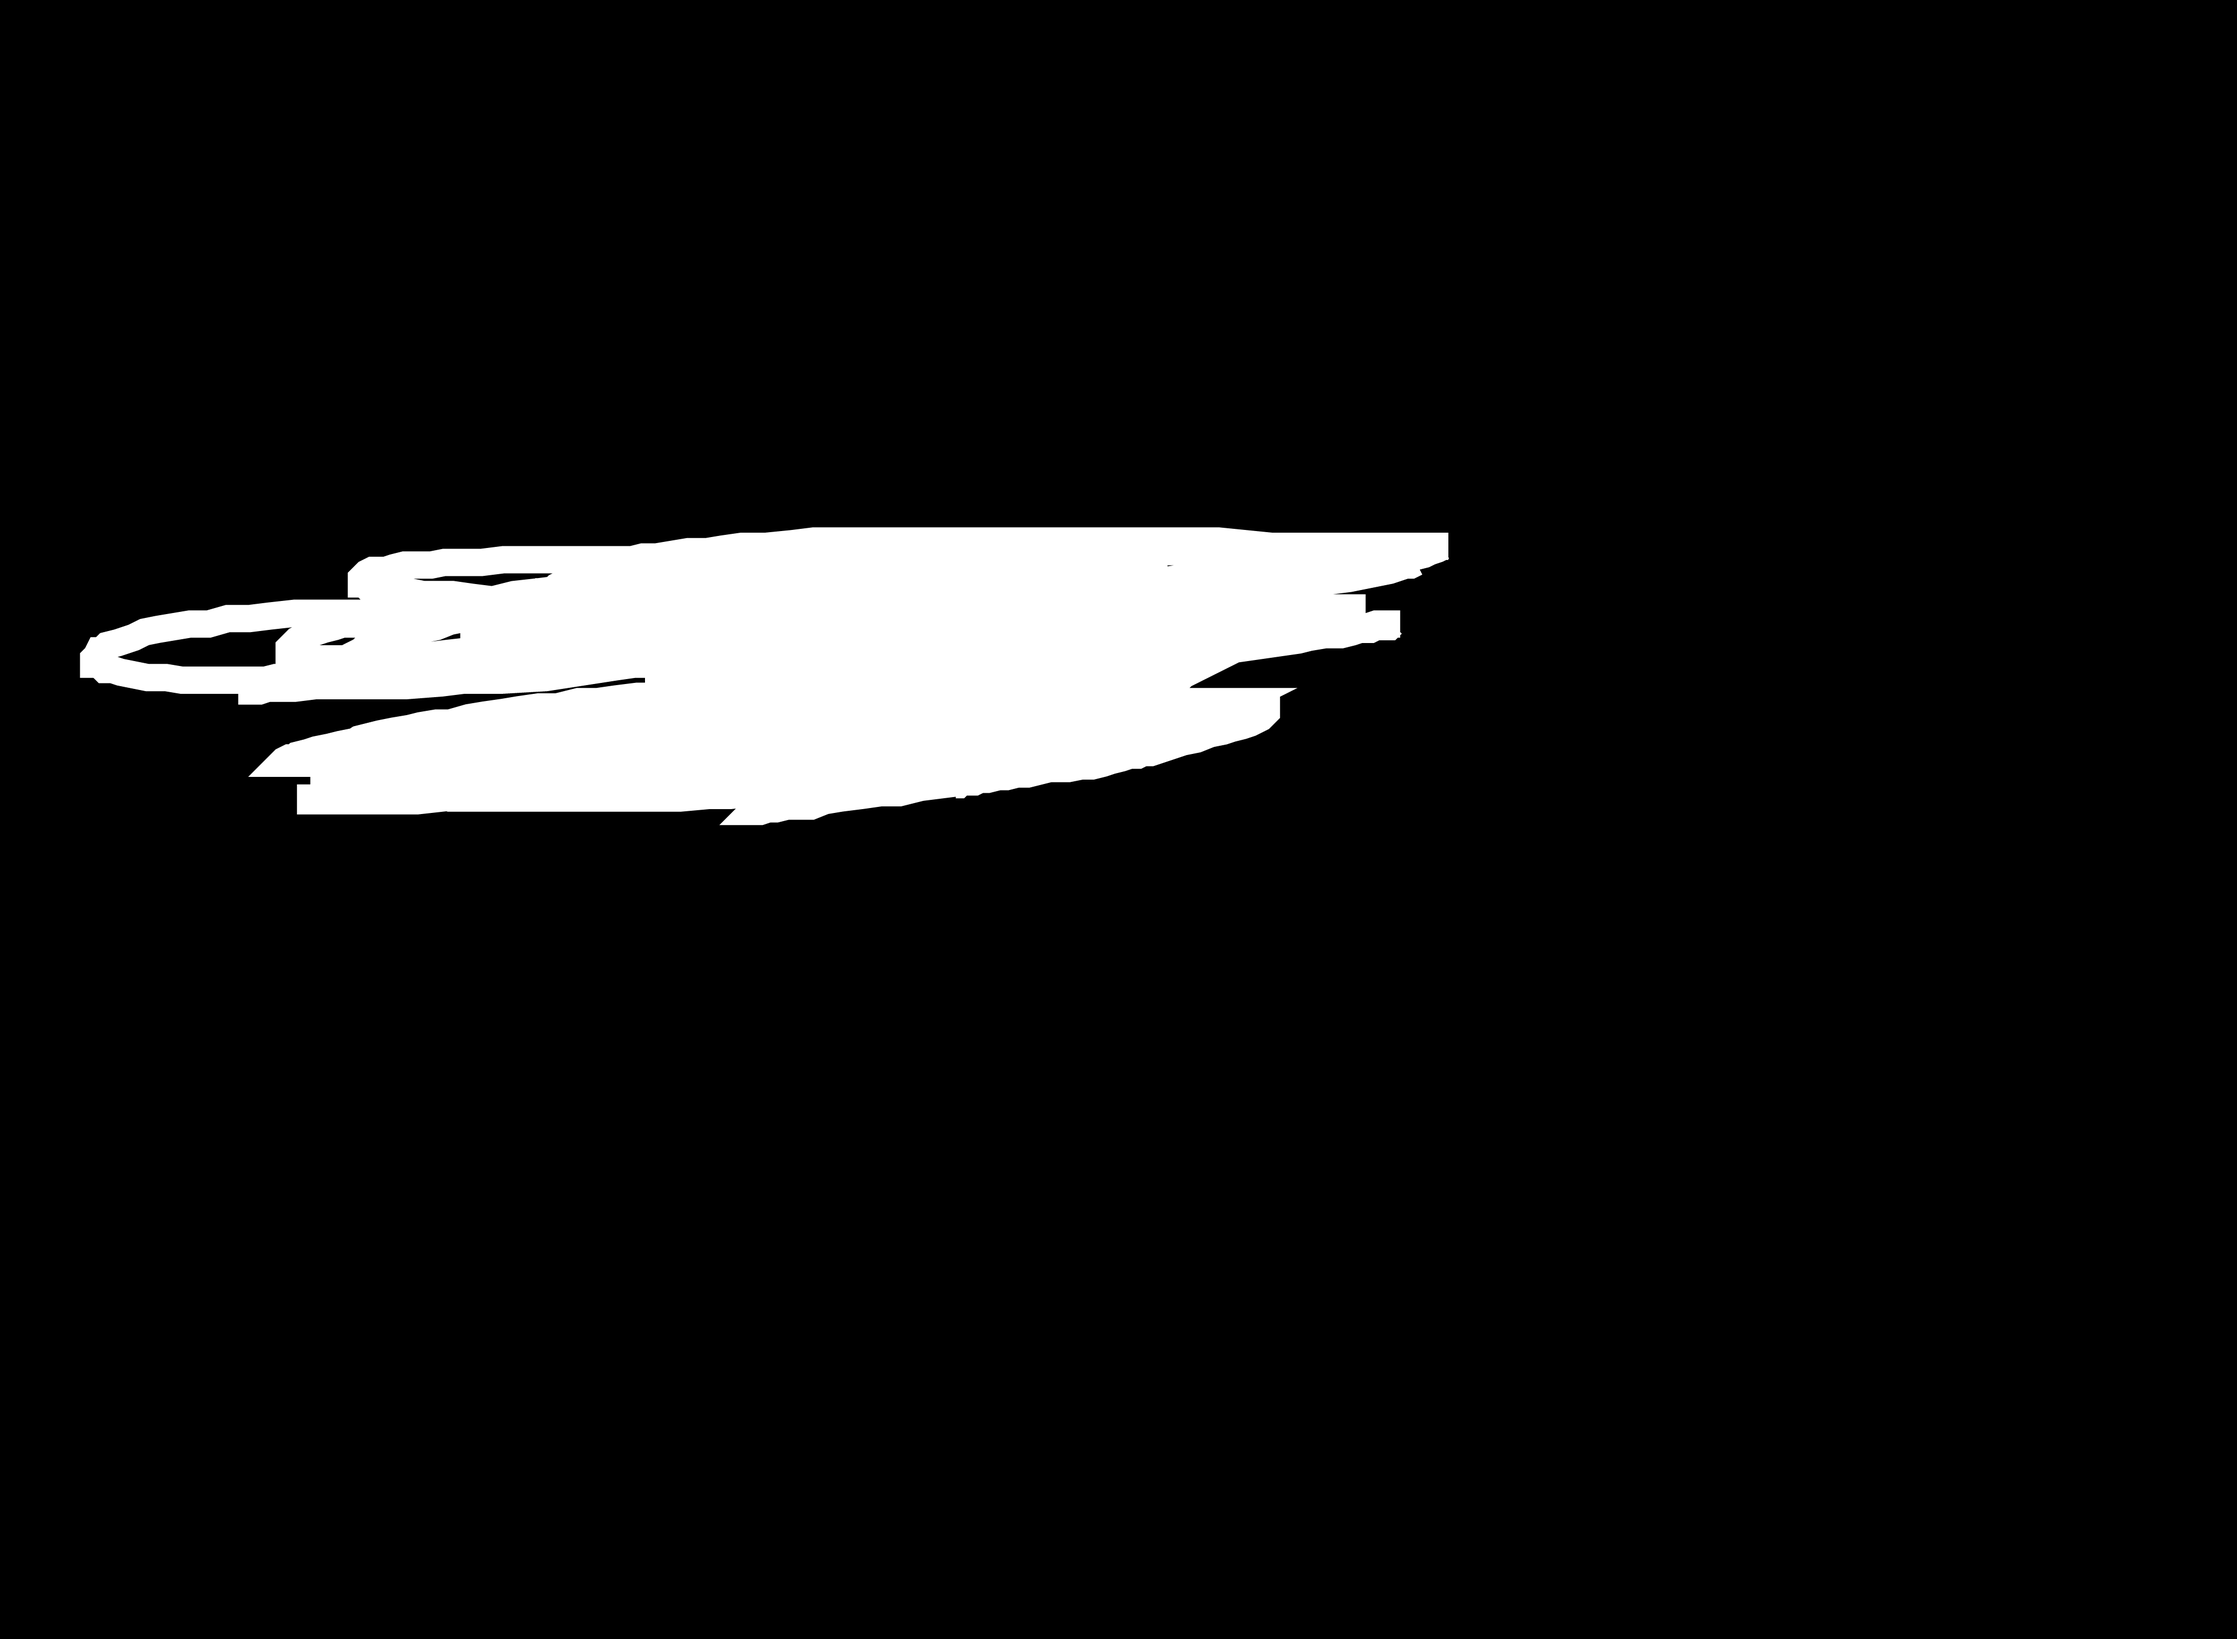
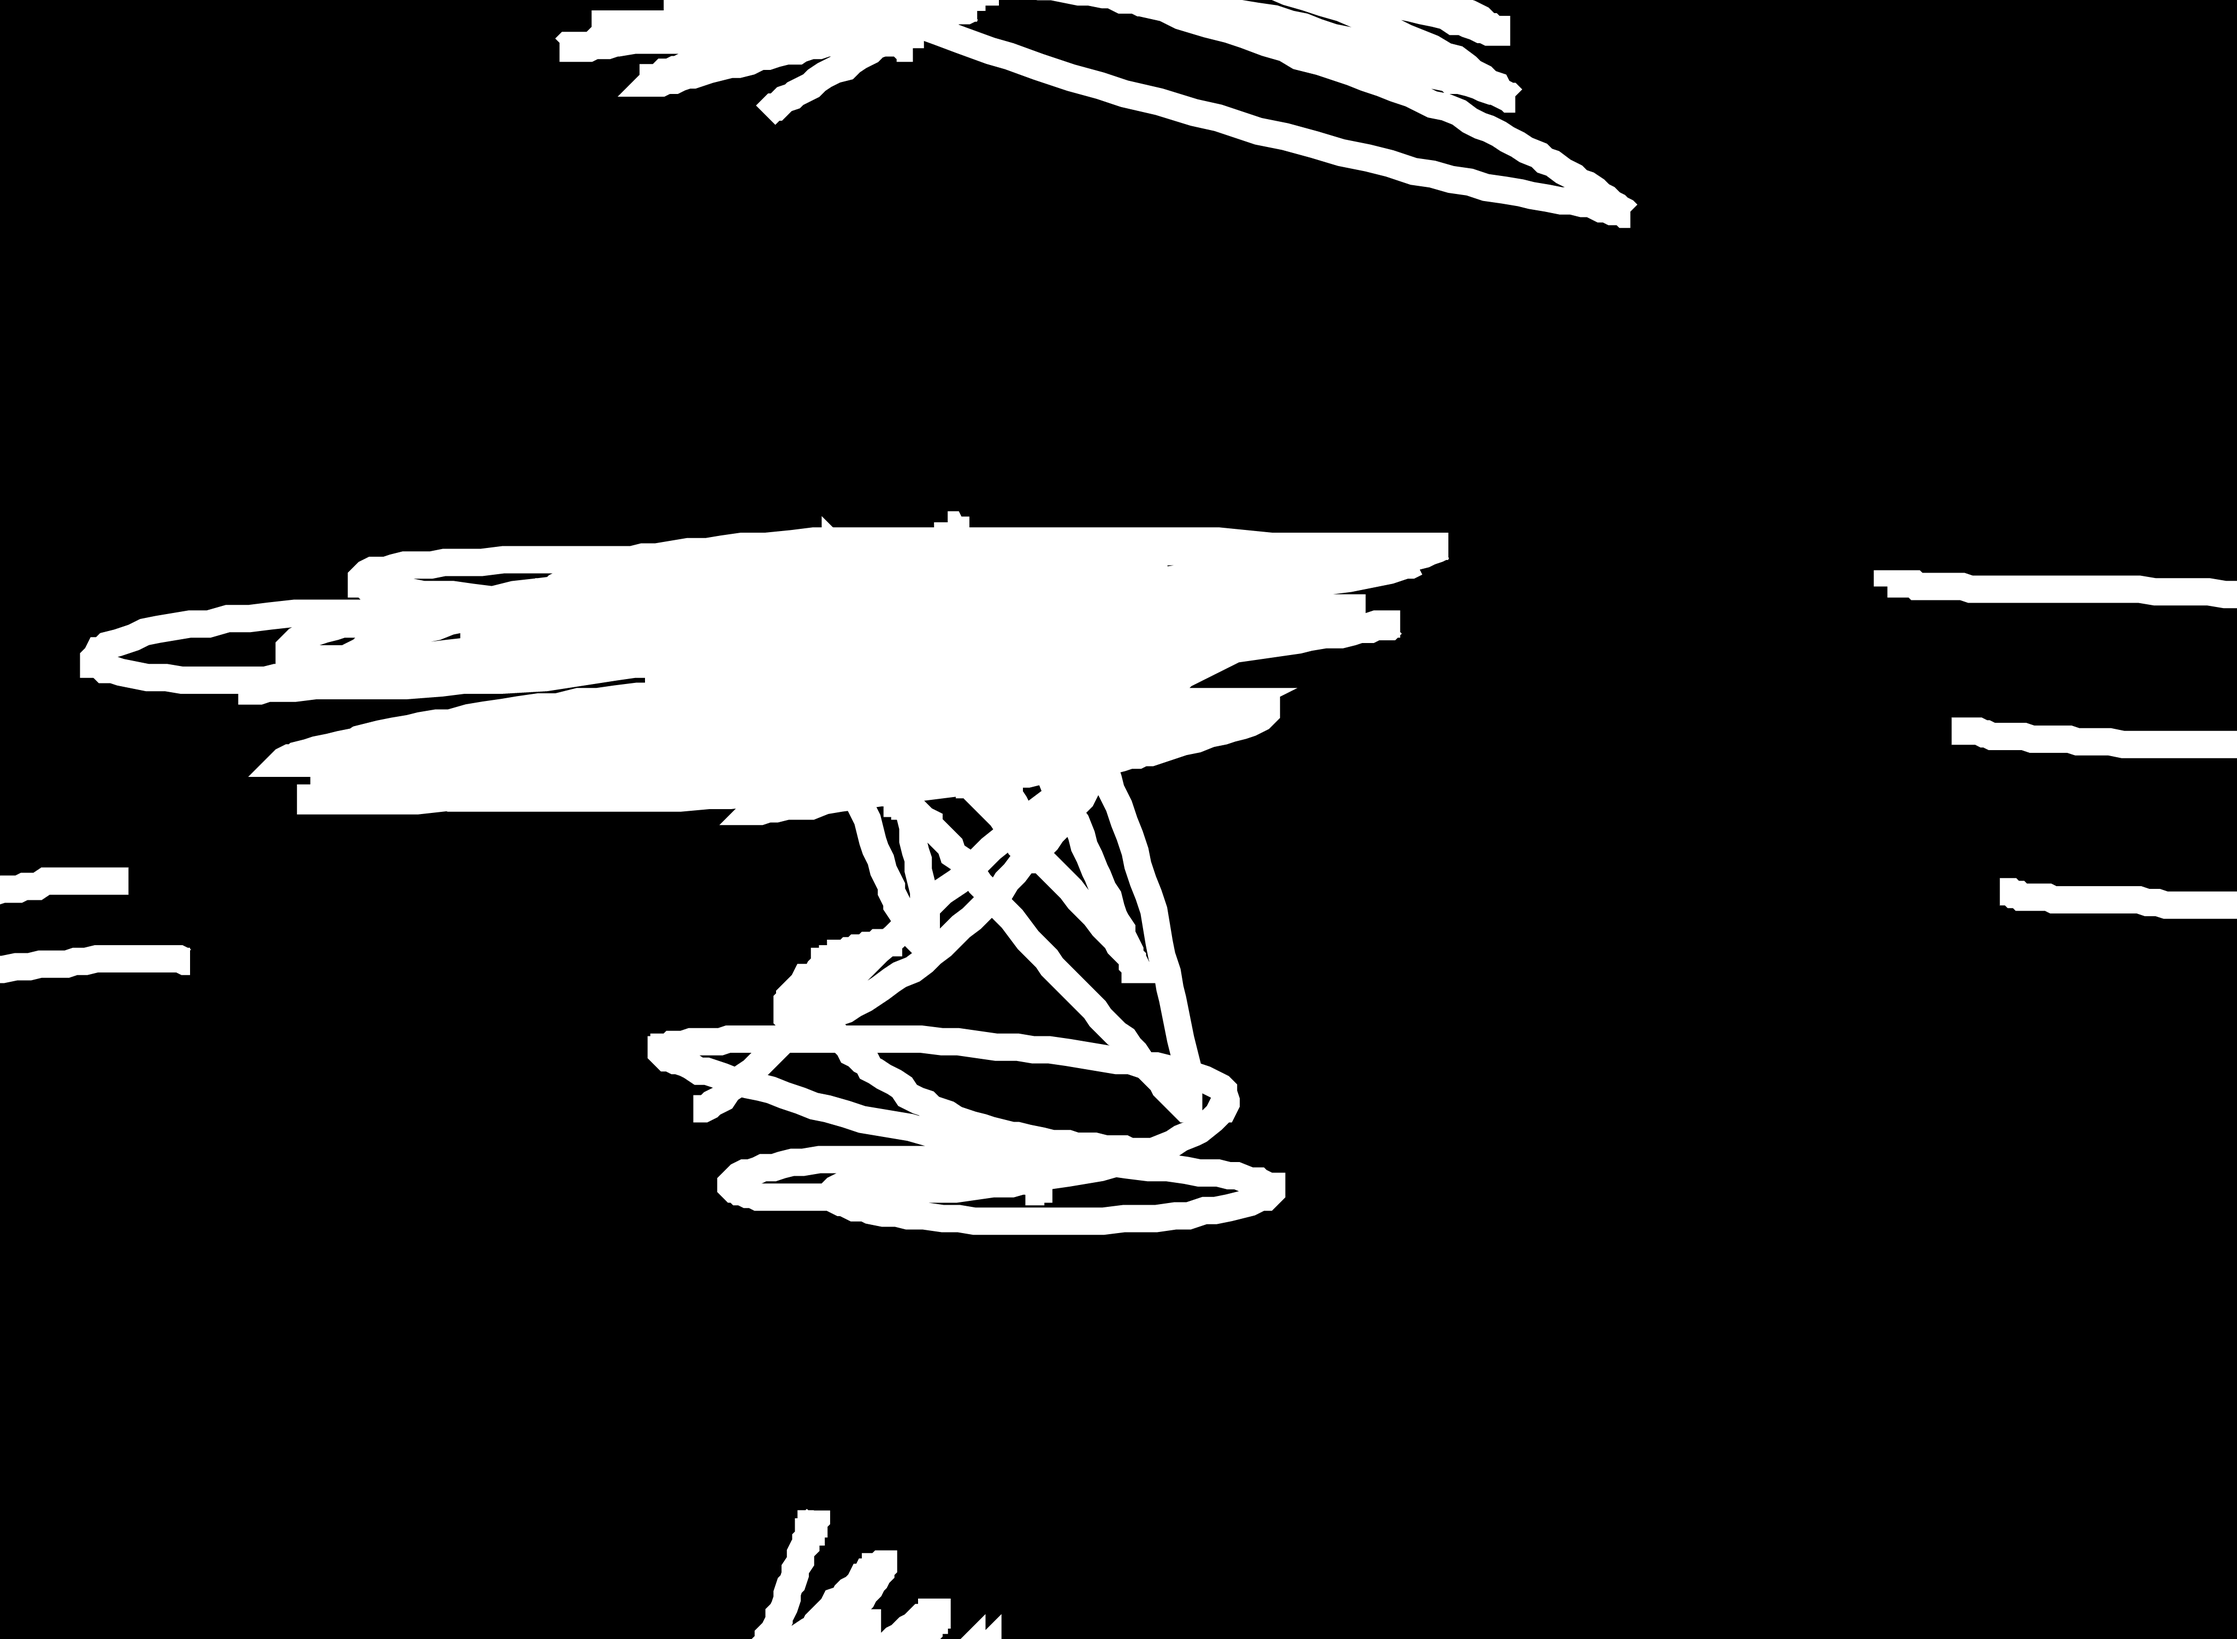
笔刷图和算法图同步

diff --git a/sbBoard.js b/sbBoard.js
@@ -2099,11 +2099,9 @@ export default class sbBoard {
         this.originDraws.forEach(val => {
           switch (val.type) {
             case "eraser":
-              _canvasCtx.globalCompositeOperation = "destination-out";
-              _canvasCtx.strokeStyle = '#fff'
+              _canvasCtx.strokeStyle = '#000'
               _canvasCtx.lineWidth = val.lineWidth;
               _canvasCtx.stroke(val.path)
-              _canvasCtx.globalCompositeOperation = "source-over";
               break;
             case "brush":
               _canvasCtx.lineWidth = val.lineWidth
